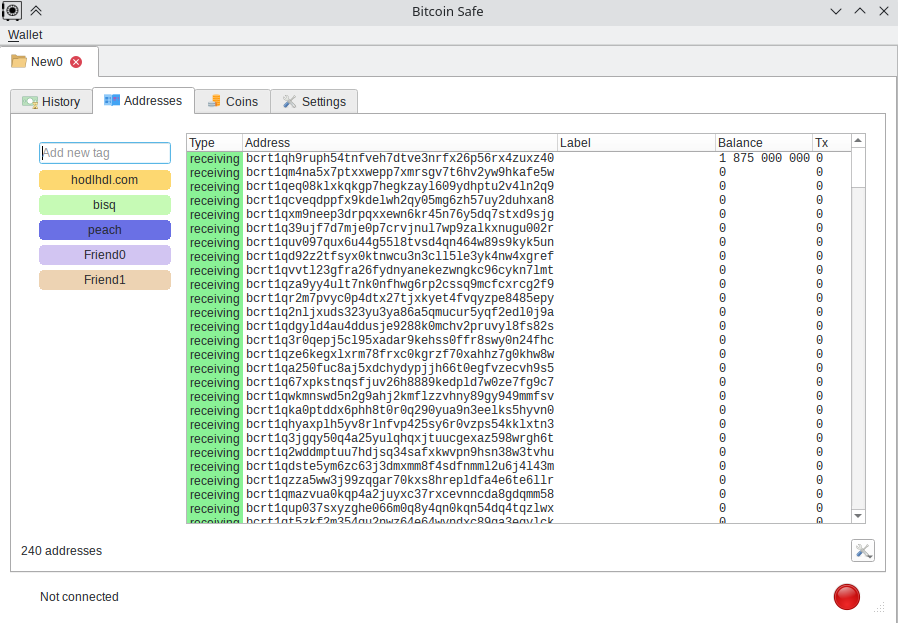
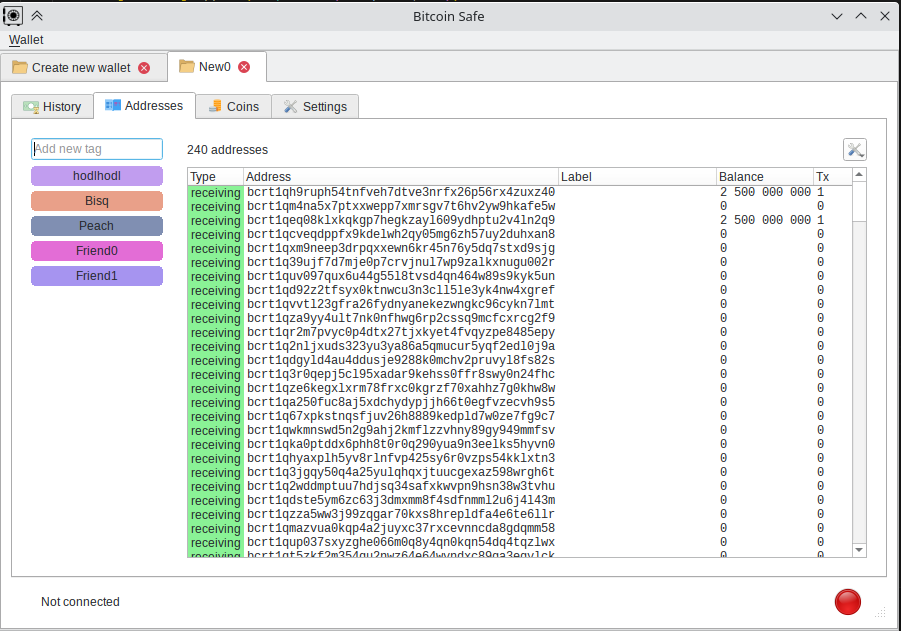
fix for tx count

Changed region(s): [[0.0, 0.0, 1.0, 1.0]]

diff --git a/bitcoin_safe/wallet.py b/bitcoin_safe/wallet.py
@@ -19,6 +19,13 @@ import json
 import enum
 
 
+class OutputInfo:
+    def __init__(self, outpoint:OutPoint, tx:bdk.Transaction) -> None:
+        self.outpoint = outpoint
+        self.tx = tx
+
+    
+
 def locked(func):
     def wrapper(self, *args, **kwargs):
         with self.lock:
@@ -614,40 +621,43 @@ class Wallet():
     
     @cache_method
     def get_received_send_maps(self):
-        addresses_funded: Dict[OutPoint, str]     = {}
-        received:  Dict[AddressInfoMin, Dict[OutPoint, bdk.Transaction]] = defaultdict(dict)   #  address: txid: tx
-        send:      Dict[AddressInfoMin, Dict[OutPoint, bdk.Transaction]] = defaultdict(dict)   #  address: txid: tx
+        hash_outpoint_to_address: Dict[int, str]     = {}  # hash(out_point), address
+        received:  Dict[str, List[OutputInfo]] = {}   #  address: OutputInfo
+        send:      Dict[str, List[OutputInfo]] = {}   #  address: OutputInfo
         
         # build the received dict
         for tx in self.get_list_transactions():
             for vout, output in enumerate(tx.transaction.output()):
                 out_point = OutPoint(tx.txid, vout)
-                address_info = self.address_info_min(self.get_address_of_output(output))
-                if address_info is None:
+                address = self.get_address_of_output(output)
+                if address is None:
                     continue
-                received[address_info][out_point] = tx
-                addresses_funded[out_point] = address_info
+                if address not in received: 
+                    received[address] = []
+                received[address].append(OutputInfo(out_point, tx)) 
+                hash_outpoint_to_address[hash(out_point)] = address
                 
         # check if any input tx is in transactions_involving_address
         for tx in self.get_list_transactions():
             for input in tx.transaction.input():
                 out_point = OutPoint.from_bdk_outpoint(input.previous_output)
-                if out_point in addresses_funded:
-                    address = addresses_funded[out_point]
-                    send[address][out_point] = tx
+                if out_point in hash_outpoint_to_address:
+                    address = hash_outpoint_to_address[hash(out_point)]
+                    if address not in send: 
+                        send[address] = []
+                    send[address].append(OutputInfo(out_point, tx)) 
                     
         return received, send
         
         
         
     def bdk_received_and_send_involving_address(self, address):
-        received, send = self.get_received_send_maps()                        
-        return received[address], send[address]
+        received, send = self.get_received_send_maps()        
+        return received.get(address, []), send.get(address, [])
         
     def bdk_txs_involving_address(self, address):   
         received, send = self.bdk_received_and_send_involving_address(address)
-        received.update(send)
-        return received
+        return received + send 
         
 
     def get_utxos(self):

diff --git a/bitcoin_safe/gui/qt/qt_wallet.py b/bitcoin_safe/gui/qt/qt_wallet.py
@@ -336,38 +336,32 @@ class QTWallet():
         return  [tab_widget.widget(i) for i in range(tab_widget.count())] 
 
     def create_list_tab(self, l:HistoryList, horizontal_widgets_left=None, horizontal_widgets_right=None):
-        w = QWidget()
-        w.searchable_list = l
-        vbox = QVBoxLayout()
-        w.setLayout(vbox)
-        #vbox.setContentsMargins(0, 0, 0, 0)
-        #vbox.setSpacing(0)
-        
         # create a horizontal widget and layout        
-        horizontal = QWidget()
-        hbox = QHBoxLayout()
+        h = QWidget()
+        h.searchable_list = l
+        hbox = QHBoxLayout(h)
+        h.setLayout(hbox)
                 
         if horizontal_widgets_left:
             for widget in horizontal_widgets_left:
                 hbox.addWidget(widget)                
-        
-        hbox.addWidget(l)
 
-        if horizontal_widgets_right:
-            for widget in horizontal_widgets_right:
-                hbox.addWidget(widget)
-        
-        horizontal.setLayout(hbox)
-        
-              
-        vbox.addWidget(horizontal)
-        
-        
+
+        w = QWidget()
+        vbox = QVBoxLayout()
+        w.setLayout(vbox)
         toolbar = l.create_toolbar(self.config)
         if toolbar:
             vbox.addLayout(toolbar)
-        return w
-    
+
+        vbox.addWidget(l)
+        hbox.addWidget(w)
+
+        if horizontal_widgets_right:
+            for widget in horizontal_widgets_right:
+                hbox.addWidget(widget)        
+        return h
+
     def _create_hist_tab(self, tabs): 
         hm = HistoryModel(self.tab, self.fx, self.config, self.wallet, self.signals)
         l = HistoryList(self.fx, self.config, self.signals,  self.wallet, hm)
